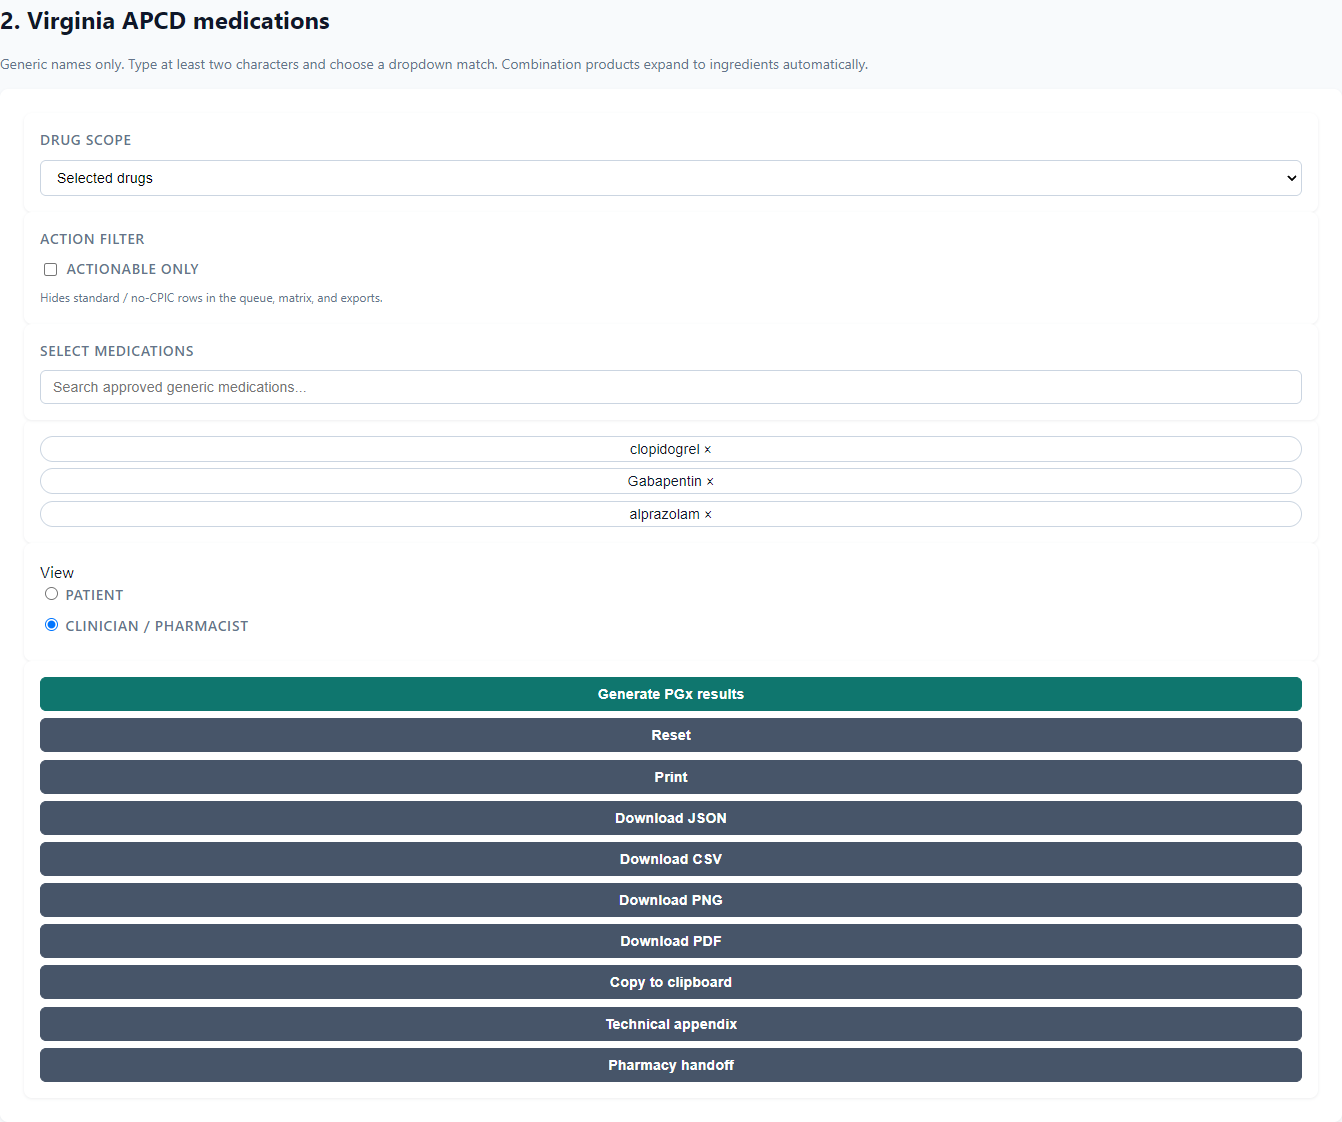
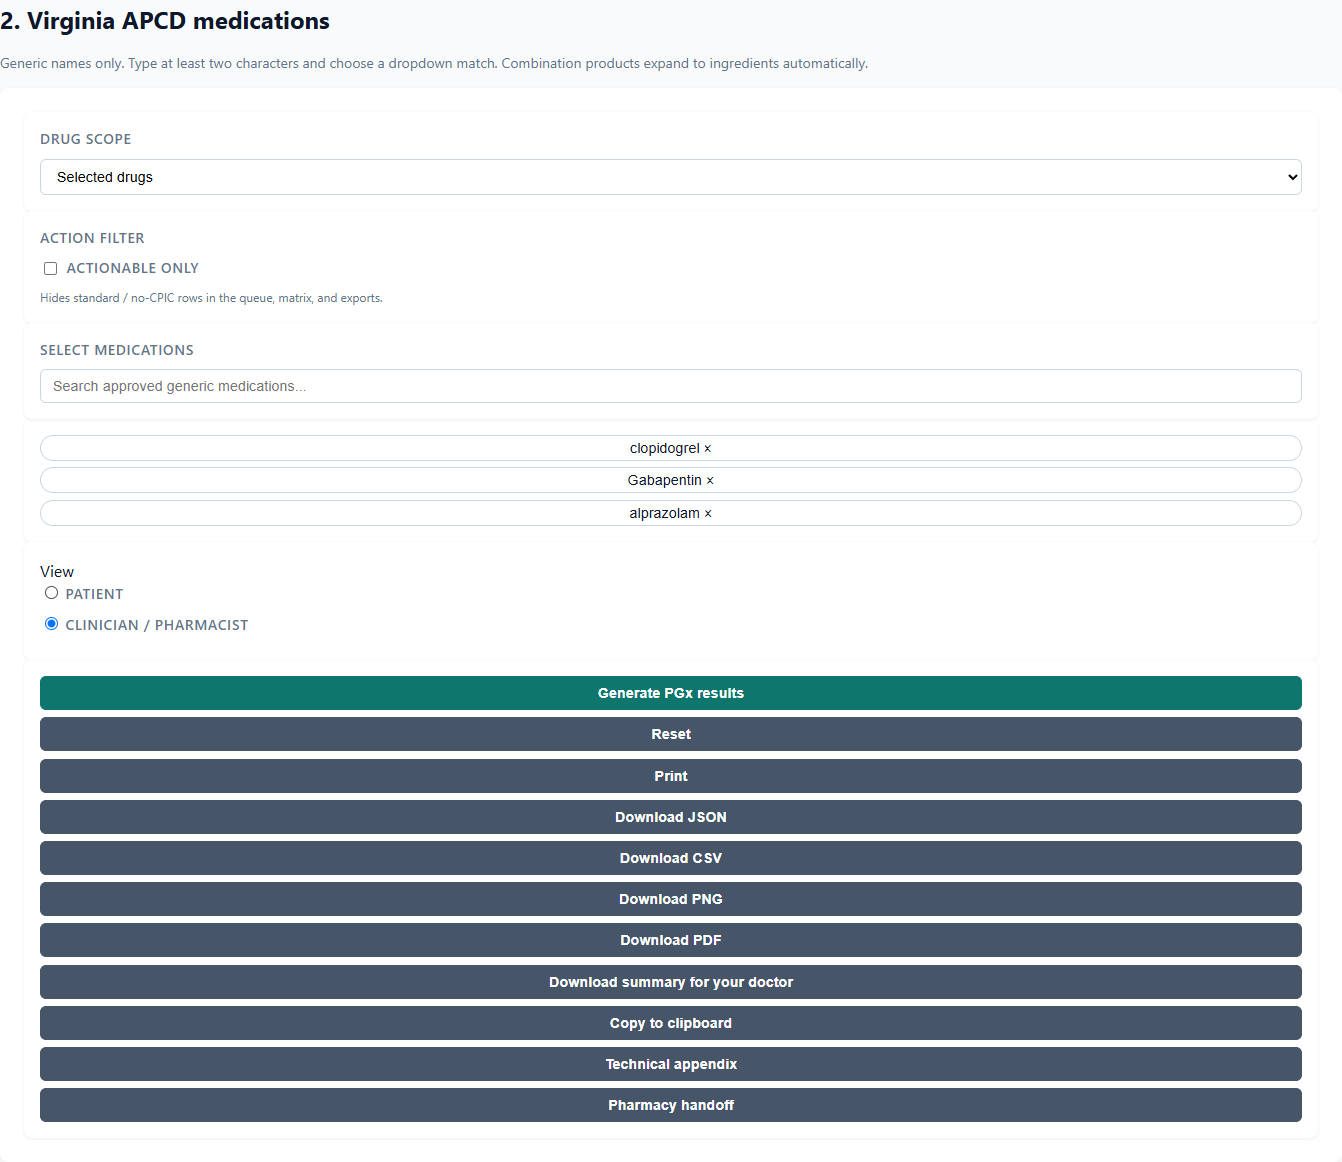
Refresh UC07–UC09 training screenshots from the live genealogy card.
The clips now show the further-testing recommendation and why an ancestry array cannot support a prescribing claim.

Changed region(s): [[0.0306, 0.0936, 0.9776, 0.967], [0.0, 0.0, 0.6416, 0.0624]]

diff --git a/11_testing/puppeteer/recapture_uc07.js b/11_testing/puppeteer/recapture_uc07.js
@@ -8,7 +8,7 @@ const fs = require("fs");
 const path = require("path");
 const puppeteer = require("puppeteer");
 
-const DASHBOARD = process.env.DASHBOARD_URL || "https://pgx.jerome-dixon.io/?v=20260927-unphased";
+const DASHBOARD = process.env.DASHBOARD_URL || "https://pgx.jerome-dixon.io/?v=20260928-genealogy-note";
 const DRIVE = process.env.PGX_UC_DRIVE_ROOT || "G:\\My Drive\\PGx_Dashboard_Use_Cases";
 const REPO = path.resolve(__dirname, "..", "..", "10_risk_dashboard", "docs", "use_case_training");
 const UC = "UC07_personalized_pgx_card";
@@ -55,7 +55,7 @@ async function addDrug(page, query) {
   const browser = await puppeteer.launch({
     headless: "new",
     defaultViewport: { width: 1440, height: 1100 },
-    args: ["--no-sandbox", "--disable-setuid-sandbox", "--disable-dev-shm-usage"],
+    executablePath: process.env.PUPPETEER_EXECUTABLE_PATH || undefined,
   });
   const page = await browser.newPage();
   page.setDefaultTimeout(45000);
@@ -112,19 +112,43 @@ async function addDrug(page, query) {
   await sleep(300);
   await save(page, "02-apcd-meds-and-scope.png", "#uc07-med-clip");
 
+  page.on("console", (msg) => console.log("PAGE", msg.type(), msg.text().slice(0, 300)));
+  page.on("request", (req) => {
+    if (req.method() === "POST") console.log("POST", req.url());
+  });
   await Promise.all([
-    page.waitForResponse((r) => r.url().includes("/pgx/card") && r.request().method() === "POST", { timeout: 40000 }),
+    page.waitForResponse((r) => r.url().includes("/pgx/card") && r.request().method() === "POST", { timeout: 90000 }),
     page.click("#btnGenerateCard"),
-  ]);
+  ]).catch(async (err) => {
+    const status = await page.$eval("#pgx-status", (el) => el.textContent || "").catch(() => "");
+    console.error("GENERATE_STATUS", status);
+    throw err;
+  });
   await page.waitForFunction(() => {
     const box = document.getElementById("pgx-card-display");
     return box && getComputedStyle(box).display !== "none";
   }, { timeout: 20000 });
   await sleep(800);
 
-  await page.$eval("#pgx-card-display", (el) => el.scrollIntoView({ block: "start" }));
+  await page.evaluate(() => {
+    if (document.getElementById("uc07-results-clip")) return;
+    const card = document.querySelector("#pgx-card-display .pgx-card");
+    if (!card) return;
+    const clip = document.createElement("div");
+    clip.id = "uc07-results-clip";
+    const keep = [
+      card.querySelector(".pgx-card-header"),
+      document.getElementById("pgx-summary-cards"),
+      document.getElementById("pgx-report-notice"),
+      document.getElementById("pgx-testing-card"),
+    ].filter(Boolean);
+    if (!keep.length) return;
+    keep[0].parentNode.insertBefore(clip, keep[0]);
+    keep.forEach((el) => clip.appendChild(el));
+  });
+  await page.$eval("#uc07-results-clip", (el) => el.scrollIntoView({ block: "start" }));
   await sleep(200);
-  await save(page, "03-generate-pgx-results.png", "#pgx-card-display .pgx-card-header");
+  await save(page, "03-generate-pgx-results.png", "#uc07-results-clip");
 
   await page.evaluate(() => {
     if (document.getElementById("uc07-queue-clip")) return;

diff --git a/11_testing/puppeteer/recapture_uc08.js b/11_testing/puppeteer/recapture_uc08.js
@@ -8,7 +8,7 @@ const fs = require("fs");
 const path = require("path");
 const puppeteer = require("puppeteer");
 
-const DASHBOARD = process.env.DASHBOARD_URL || "https://pgx.jerome-dixon.io/?v=20260927-unphased";
+const DASHBOARD = process.env.DASHBOARD_URL || "https://pgx.jerome-dixon.io/?v=20260928-genealogy-note";
 const DRIVE = process.env.PGX_UC_DRIVE_ROOT || "G:\\My Drive\\PGx_Dashboard_Use_Cases";
 const REPO = path.resolve(__dirname, "..", "..", "10_risk_dashboard", "docs", "use_case_training");
 const UC = "UC08_cohort_vs_card";
@@ -55,7 +55,7 @@ async function addDrug(page, query) {
   const browser = await puppeteer.launch({
     headless: "new",
     defaultViewport: { width: 1440, height: 1100 },
-    args: ["--no-sandbox", "--disable-setuid-sandbox", "--disable-dev-shm-usage"],
+    executablePath: process.env.PUPPETEER_EXECUTABLE_PATH || undefined,
   });
   const page = await browser.newPage();
   page.setDefaultTimeout(45000);
@@ -176,10 +176,20 @@ async function addDrug(page, query) {
     if (patient) patient.click();
   });
   await addDrug(page, "clopidogrel");
+  page.on("console", (msg) => console.log("PAGE", msg.type(), msg.text().slice(0, 300)));
+  page.on("request", (req) => {
+    if (req.method() === "POST") console.log("POST", req.url());
+  });
+  await page.$eval("#btnGenerateCard", (el) => el.scrollIntoView({ block: "center" }));
+  await sleep(300);
   await Promise.all([
-    page.waitForResponse((r) => r.url().includes("/pgx/card") && r.request().method() === "POST", { timeout: 40000 }),
+    page.waitForResponse((r) => r.url().includes("/pgx/card") && r.request().method() === "POST", { timeout: 90000 }),
     page.click("#btnGenerateCard"),
-  ]);
+  ]).catch(async (err) => {
+    const status = await page.$eval("#pgx-status", (el) => (el.textContent || "").trim()).catch(() => "");
+    console.error("GENERATE_STATUS", status);
+    throw err;
+  });
   await page.waitForFunction(() => {
     const box = document.getElementById("pgx-card-display");
     return box && getComputedStyle(box).display !== "none";
@@ -195,12 +205,16 @@ async function addDrug(page, query) {
     );
     const card = document.getElementById("pgx-card-display");
     const header = card && card.querySelector(".pgx-card-header");
+    const notice = document.getElementById("pgx-report-notice");
+    const testing = document.getElementById("pgx-testing-card");
     const queue = document.getElementById("pgx-action-queue");
     const parent = (viewRow && viewRow.parentNode) || (card && card.parentNode);
     if (!parent) return;
     parent.insertBefore(clip, viewRow || card);
     if (viewRow) clip.appendChild(viewRow);
     if (header) clip.appendChild(header);
+    if (notice) clip.appendChild(notice);
+    if (testing) clip.appendChild(testing);
     if (queue) clip.appendChild(queue);
   });
   await page.$eval("#uc08-patient-clip", (el) => el.scrollIntoView({ block: "start" }));

diff --git a/11_testing/puppeteer/recapture_uc09.js b/11_testing/puppeteer/recapture_uc09.js
@@ -8,7 +8,7 @@ const fs = require("fs");
 const path = require("path");
 const puppeteer = require("puppeteer");
 
-const DASHBOARD = process.env.DASHBOARD_URL || "https://pgx.jerome-dixon.io/?v=20260927-unphased";
+const DASHBOARD = process.env.DASHBOARD_URL || "https://pgx.jerome-dixon.io/?v=20260928-genealogy-note";
 const DRIVE = process.env.PGX_UC_DRIVE_ROOT || "G:\\My Drive\\PGx_Dashboard_Use_Cases";
 const REPO = path.resolve(__dirname, "..", "..", "10_risk_dashboard", "docs", "use_case_training");
 const UC = "UC09_documentation";
@@ -68,7 +68,7 @@ async function wrapSections(page, clipId, headingRes) {
   const browser = await puppeteer.launch({
     headless: "new",
     defaultViewport: { width: 1440, height: 1100 },
-    args: ["--no-sandbox", "--disable-setuid-sandbox", "--disable-dev-shm-usage"],
+    executablePath: process.env.PUPPETEER_EXECUTABLE_PATH || undefined,
   });
   const page = await browser.newPage();
   page.setDefaultTimeout(45000);

diff --git a/10_risk_dashboard/docs/use_case_training/UC07_personalized_pgx_card/README.md b/10_risk_dashboard/docs/use_case_training/UC07_personalized_pgx_card/README.md
@@ -31,13 +31,13 @@ Optional refinement after (or instead of) the claims radar.
 
 ## Screenshot index
 
-PNGs in `screenshots/`. These are captures of the live dashboard. Do not replace them with generated mockups. Recaptured 2026-09-26 as **clipped sections** (the first pass used full-page shots; `04` and `05` were identical). They predate the exploratory raw-DNA boundary, so they may still show the older helper text or a dose queue. Live array-file behavior is gene coverage and a clinical-test referral. Lab `Gene,*allele` lines still use the phenotype table.
+PNGs in `screenshots/`. These are captures of the live dashboard. Do not replace them with generated mockups. Recaptured 2026-09-28 as **clipped sections**.
 
-- `01-gene-data-entry.png` — **1. Gene data** (2026-09-26): session label, `Gene,*allele` lines, **Or upload file**
-- `02-apcd-meds-and-scope.png` — **2. Virginia APCD medications**: drug scope and **Generate PGx results**
-- `03-generate-pgx-results.png` — **PGx results** header after generate (2026-09-26 capture)
-- `04-action-queue-matrix.png` — medication-first queue and gene–drug matrix (lab-allele path; 2026-09-26 capture)
-- `05-exports.png` — export row (2026-09-26 capture; live card also has **Download summary for your doctor**)
+- `01-gene-data-entry.png` — **1. Gene data**: genealogy-file notice, medical notice, session label, lab `Gene,*allele` lines plus `rs4149056,TC`, **Or upload file**
+- `02-apcd-meds-and-scope.png` — **2. Virginia APCD medications**: **Selected drugs**, three chips, **Generate PGx results**
+- `03-generate-pgx-results.png` — **PGx results** with the further-testing card: **Further clinical test recommended** for SLCO1B1, plus the genealogy-claim notice
+- `04-action-queue-matrix.png` — medication-first queue and gene–drug matrix for the lab-allele rows
+- `05-exports.png` — export row, including **Download summary for your doctor**
 - `06-triplets-genes-pharmacy.png` — triplets, **Genes tested**, **Send to pharmacy (coming soon)** disabled
 
 Not a separate PNG (covered elsewhere or not a screen): an actual 23andMe/VCF file chosen in the picker (the control is in `01`); Patient view (UC08 `02-pgx-card-patient.png`); downloaded export files.

diff --git a/10_risk_dashboard/docs/use_case_training/UC08_cohort_vs_card/README.md b/10_risk_dashboard/docs/use_case_training/UC08_cohort_vs_card/README.md
@@ -27,10 +27,10 @@ Use **PGx Cohort** for research topology. Use **PGx Card** for a claims radar, a
 
 ## Screenshot index
 
-PNGs in `screenshots/`. These are captures of the live dashboard. Do not replace them with generated mockups. Recaptured 2026-09-26 as **clipped sections** (the first pass used full-page shots; `01` and `03` were nearly the same PGx Cohort viewport).
+PNGs in `screenshots/`. These are captures of the live dashboard. Do not replace them with generated mockups. Recaptured 2026-09-28 as **clipped sections**.
 
 - `01-pgx-cohort-network.png` — **PGx Cohort**: **Load PGx Cohort Network**, gene–drug–phenotype iframe
-- `02-pgx-card-patient.png` — **PGx Card** **Patient** view after **Generate PGx results** (2026-09-26 capture of a lab-allele session). Live array-file results show coverage and a clinical-test referral instead of a dose queue.
+- `02-pgx-card-patient.png` — **PGx Card** **Patient** view after **Generate PGx results**, including the further-testing card (**Further clinical test recommended** for SLCO1B1) and the clopidogrel action
 - `03-roles-compared.png` — **PGx Card** **Load Cohort PGx Profile** (claims radar + identified genes). Same genes as the cohort tab, but this is a session/claims profile, not the research network.
 
 Canonical workflow text: repo `10_risk_dashboard/docs/DASHBOARD_USE_CASES.md`.

diff --git a/10_risk_dashboard/docs/use_case_training/UC09_documentation/README.md b/10_risk_dashboard/docs/use_case_training/UC09_documentation/README.md
@@ -22,13 +22,13 @@
 
 ## Screenshot index
 
-PNGs in `screenshots/`. These are captures of the live dashboard. Do not replace them with generated mockups. Recaptured 2026-09-26 as **clipped sections** (the first pass used full-page shots; `03` and `04` were identical).
+PNGs in `screenshots/`. These are captures of the live dashboard. Do not replace them with generated mockups. Recaptured 2026-09-28 as **clipped sections**.
 
 - `01-documentation-how-to.png` — **Overview** + **Tabs**
 - `02-model-performance.png` — **Model performance and at-risk identification**
 - `03-visual-artifacts.png` — **Dashboard visual artifacts (from manifest)**
 - `04-density-bins.png` — **Feature importance sources for visuals** + **Event density bins**
-- `05-unphased-dna.png` — **Unphased DNA files and star alleles**. Captured 2026-09-26, before the exploratory boundary. Live text is gene coverage, **Data Not Present in File**, and no dose from array files.
+- `05-unphased-dna.png` — **Unphased DNA files and star alleles**: genealogy files cannot support a prescribing claim; coverage and **Data Not Present in File**
 
 Canonical workflow text: repo `10_risk_dashboard/docs/DASHBOARD_USE_CASES.md`.
 
